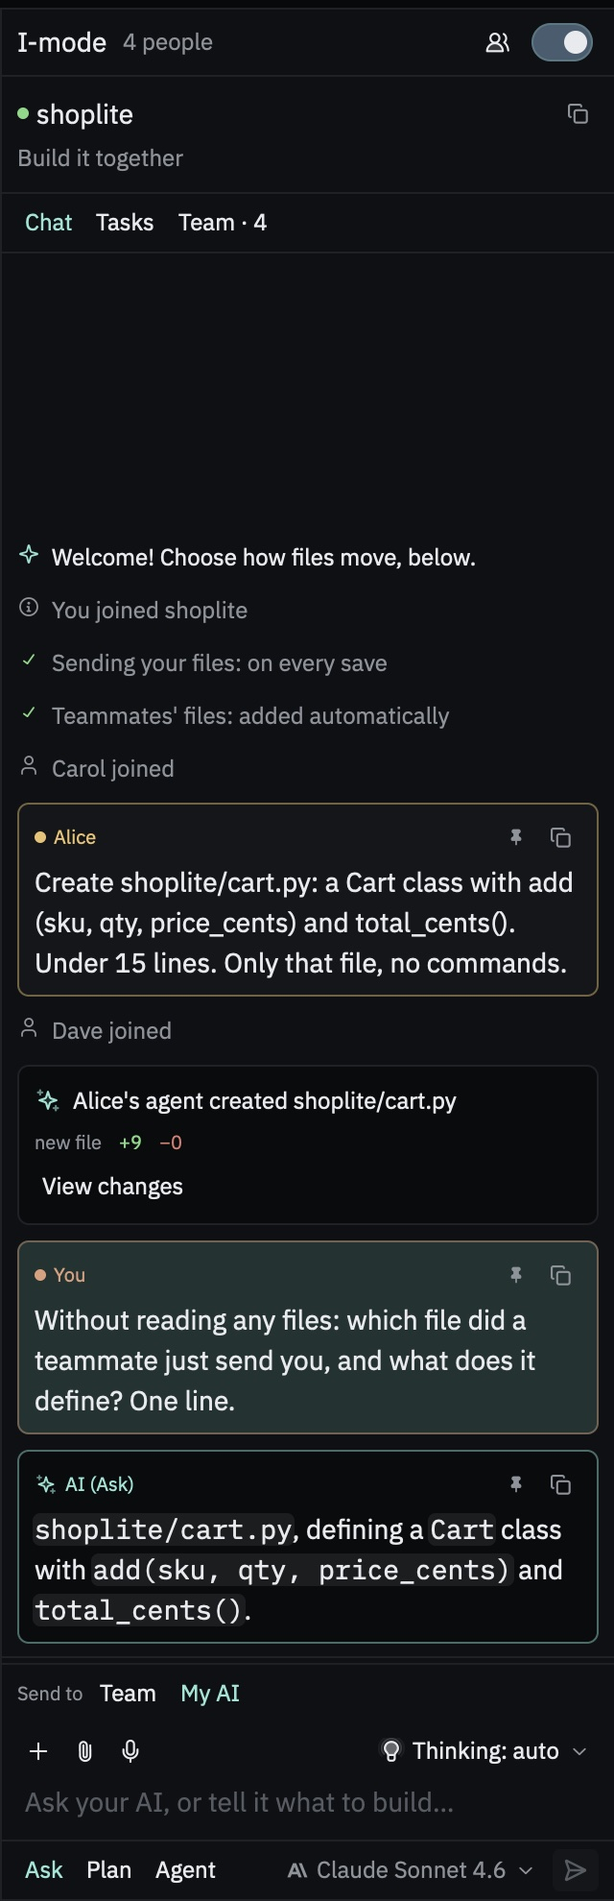
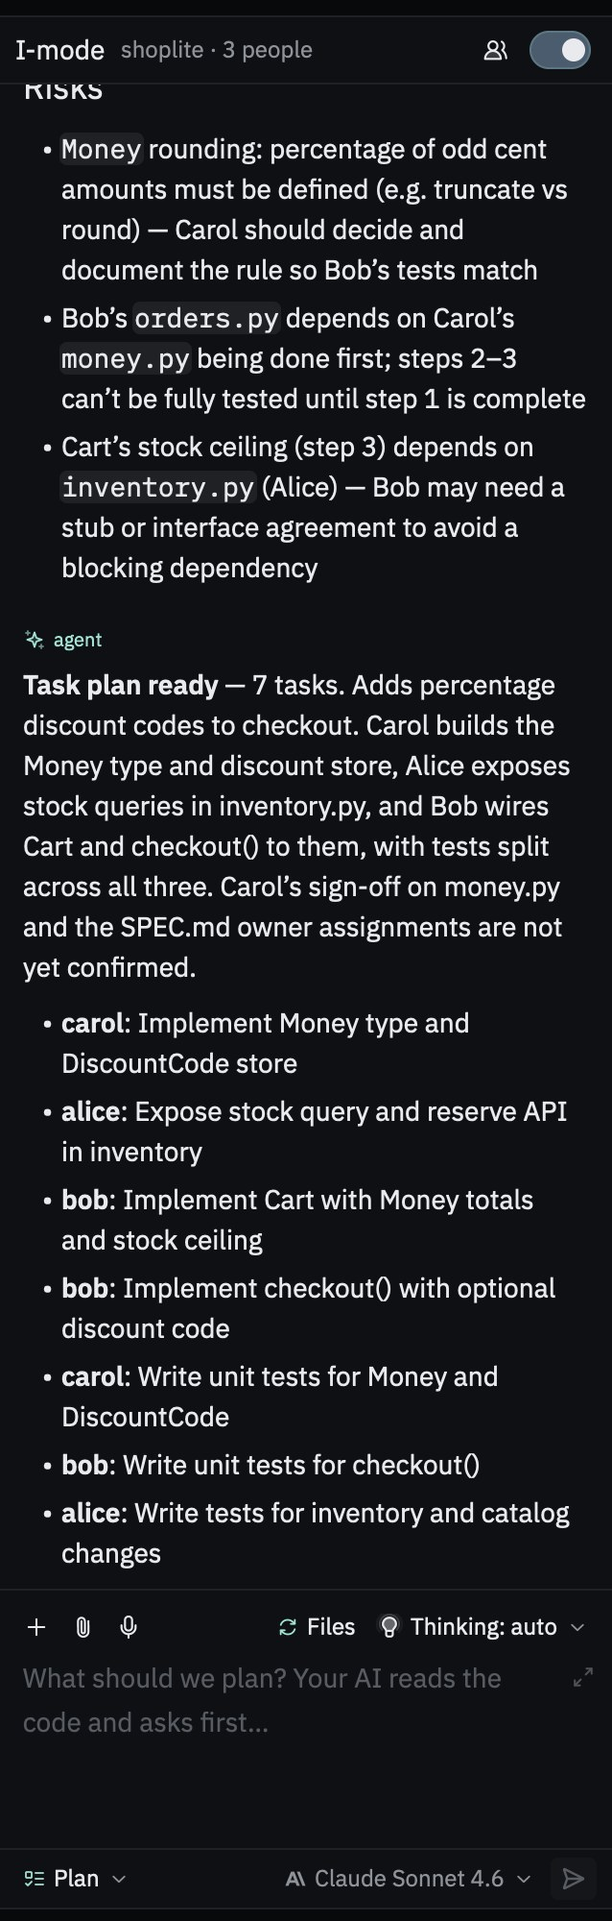
Docs and pictures for the new I-mode: mode menu, Plan mode, Team activity

diff --git a/site/docs/interface.html b/site/docs/interface.html
@@ -1,10 +1,10 @@
 <article data-page="/docs/interface" data-group="Get started" data-title="The I-IDE interface">
 <h1>The I-IDE interface</h1>
 <p class="lede">The I-IDE window has an editor in the middle, panels on each side, and a status bar along the bottom. This page explains each part.</p>
-<figure><img width="1100" height="752" src="/docs/img/window.jpg" alt="The I-IDE window: files on the left, cart.py open in the middle, and the I-mode panel on the right with the team chat, a file Alice's agent sent, and Bob's AI describing it." loading="lazy"><figcaption>The I-IDE window during a team session.</figcaption></figure>
+<figure><img width="1100" height="752" src="/docs/img/window.jpg" alt="The I-IDE window: files with Team activity below them on the left (Bob editing, tasks with owners), SPEC.md in the middle, and the I-mode chat on the right with a shared plan turned into tasks." loading="lazy"><figcaption>The I-IDE window during a team session.</figcaption></figure>
 <h2>Main areas</h2>
 <ul>
-  <li><strong>Project Panel:</strong> your project's files and folders, on the left. Toggle the left side with <kbd>Cmd</kbd>+<kbd>B</kbd>.</li>
+  <li><strong>Project Panel:</strong> your project's files and folders, on the left, with <strong>Team activity</strong> below them in a session. Toggle the left side with <kbd>Cmd</kbd>+<kbd>B</kbd>.</li>
   <li><strong>Editor:</strong> where you read and change code. Each open file gets a tab.</li>
   <li><strong>I-mode panel:</strong> sign-in, team sessions, chat and your AI, on the right. Toggle the right side with <kbd>Cmd</kbd>+<kbd>Alt</kbd>+<kbd>B</kbd>.</li>
   <li><strong>Bottom dock:</strong> the terminal and other tools. Toggle it with <kbd>Cmd</kbd>+<kbd>J</kbd>.</li>
@@ -15,20 +15,19 @@
 <ul>
   <li><strong>Two panels on one side:</strong> opening a panel on a side that already shows one keeps both, one above the other. For example, open <strong>Git</strong> and it appears below I-mode, or open the <strong>Agent Panel</strong> and it appears below your files. Drag the line between them to share the space, and select a panel's status bar button again to hide just that panel.</li>
   <li><strong>Terminal beside your code:</strong> the terminal opens at the bottom. To have it at a side instead, choose <strong>Beside the editor, right</strong> or <strong>left</strong>, so the side panels stay in view.</li>
-  <li><strong>Resize parts of I-mode:</strong> drag the line under the session title, or the line above the message box, to make that part taller or shorter. Double-click a line to put it back.</li>
+  <li><strong>A bigger message box:</strong> select the expand button at the top right of the message box in I-mode.</li>
 </ul>
 <p>To have each panel replace the one on its side instead, add <code>"stack_side_panels": false</code> to your settings.</p>
 <h2>The I-mode panel</h2>
-<p>From top to bottom, the panel has these parts during a session:</p>
+<p>From top to bottom, the panel has three parts:</p>
 <ol>
-  <li><strong>Header:</strong> the words <strong>I-mode</strong>, how many people are present, the people menu and the I-mode switch.</li>
-  <li><strong>Session title:</strong> the session name and goal, with a button that copies the invite link.</li>
-  <li><strong>Tabs:</strong> <strong>Chat</strong>, <strong>Tasks</strong> and <strong>Team</strong>.</li>
-  <li><strong>Send to:</strong> choose whether your message goes to your <strong>Team</strong> or <strong>My AI</strong>.</li>
-  <li><strong>Tool row:</strong> effort level and the buttons described in <a href="/docs/chat#tool-row">Team chat</a>.</li>
-  <li><strong>Message box:</strong> where you type.</li>
-  <li><strong>Mode and model:</strong> <strong>Ask</strong>, <strong>Plan</strong> or <strong>Agent</strong>, and which AI model to use.</li>
+  <li><strong>Header:</strong> the words <strong>I-mode</strong>, the session name and how many people are here (hover for the session goal), the people menu and the I-mode switch.</li>
+  <li><strong>Chat:</strong> your team's messages and your AI's answers.</li>
+  <li><strong>Message box:</strong> the tool row, the box itself, and the mode menu (<strong>Team</strong>, <strong>Ask</strong>, <strong>Plan</strong>, <strong>Agent</strong>) with the model and send button.</li>
 </ol>
+<h2>Team activity</h2>
+<figure class="small"><img width="319" height="1000" src="/docs/img/team-chat.jpg" alt="The I-mode panel: the end of a plan, then the task plan the session made from it, listing each person's tasks, above the message box." loading="lazy"><figcaption>The I-mode panel after a plan was shared.</figcaption></figure>
+<p>The <strong>Team activity</strong> panel sits beside your files. It shows who's here and which file each person is editing, with a colored status: amber for editing, blue for an agent running, grey for idle. Below that are the tasks and the latest changes.</p>
 <h2>The people menu</h2>
 <p>Select the people icon next to the I-mode switch to invite people, share files or your running app, and leave a session. If you're not in a session, it's where you create or join one.</p>
 <figure class="small"><img width="380" height="320" src="/docs/img/people-menu.jpg" alt="The people menu: AI & sharing, Invite by email, Share files, Share running app, Copy invite link, Leave session and Log out." loading="lazy"><figcaption>The people menu, as a session owner sees it.</figcaption></figure>

diff --git a/site/docs/chat.html b/site/docs/chat.html
@@ -1,28 +1,30 @@
 <article data-page="/docs/chat" data-group="Work with your team" data-title="Team chat">
 <h1>Team chat</h1>
-<p class="lede">The Chat tab is where you talk to your team and your AI. The <strong>Send to</strong> control decides who reads each message.</p>
+<p class="lede">The I-mode panel is one conversation: header, chat, message box. The mode menu under the message box decides who reads what you send.</p>
 <h2>Choose who gets your message</h2>
-<table><thead><tr><th>Send to</th><th>Who reads it</th></tr></thead><tbody>
-  <tr><td><strong>Team</strong></td><td>Everyone in the session.</td></tr>
-  <tr><td><strong>My AI</strong></td><td>Your own AI. It's private to you.</td></tr>
+<p>Select the mode menu at the bottom left of the panel, or press <kbd>Shift</kbd>+<kbd>Tab</kbd> in the message box to move through the modes.</p>
+<table><thead><tr><th>Mode</th><th>Who reads it</th></tr></thead><tbody>
+  <tr><td><strong>Team</strong></td><td>The people in the session. No AI.</td></tr>
+  <tr><td><strong>Ask</strong></td><td>Your AI, which answers questions and changes nothing.</td></tr>
+  <tr><td><strong>Plan</strong></td><td>Your AI, which reads the code, asks what it needs, then writes a plan. See <a href="/docs/your-ai#plan">Plan mode</a>.</td></tr>
+  <tr><td><strong>Agent</strong></td><td>Your AI, which writes code and runs commands.</td></tr>
 </tbody></table>
-<h2>Send a message to your team</h2>
-<ol>
-  <li>Set <strong>Send to</strong> to <strong>Team</strong>.</li>
-  <li>Type in the message box.</li>
-  <li>Press <kbd>Return</kbd>.</li>
-</ol>
-<h2>Team chat is for people</h2>
-<p>Messages sent to <strong>Team</strong> go to the people in the session. To ask your AI, switch <strong>Send to</strong> to <strong>My AI</strong>, or use the <a href="/docs/agent-panel">Agent Panel</a> on the left. The two work as a pair; see <a href="/docs/agent-panel#your-two-ais">Your two AIs</a>.</p>
-<p>When the team has agreed what to do, end a message with <code>@agent</code> to hand the agreed work to your AI. <strong>Send to</strong> then switches to <strong>My AI</strong>.</p>
+<p>A session starts on <strong>Team</strong>. When the team has agreed what to do, end a message with <code>@agent</code> to hand the agreed work to your AI; the mode switches to your AI for the messages that follow.</p>
+<h2>What stays in the chat</h2>
+<p>Messages, your AI's answers and files teammates send stay in the chat. Short notices, such as someone joining or a setting you changed, show for a few seconds above the message box and then go away.</p>
+<h2>Choose how files move</h2>
+<p>The <strong>Files</strong> button in the tool row shows how your changes and your teammates' changes move, and lets you change either at any time. See <a href="/docs/live-editing">Live editing</a>.</p>
+<h2>A bigger message box</h2>
+<p>The message box grows as you type, up to eight lines. For a long message, select the expand button at its top right; select it again, or send, to make it small again.</p>
 <h2 id="tool-row">The tool row</h2>
 <p>These buttons sit above the message box. Hover over any of them to see its name.</p>
 <table><thead><tr><th>Control</th><th>What it does</th></tr></thead><tbody>
-  <tr><td><strong>Effort</strong> menu</td><td>Sets how hard your AI thinks. See <a href="/docs/your-ai#effort">Effort</a>.</td></tr>
-  <tr><td>Document button</td><td>Starts writing the <a href="/docs/reference-doc">shared reference</a>.</td></tr>
-  <tr><td>List button</td><td>Runs <a href="/docs/triage">triage</a>. Only the owner can use it.</td></tr>
-  <tr><td>Circle button</td><td>Syncs the file you have open.</td></tr>
-  <tr><td>Image and paper clip buttons</td><td>Attach an image or a file.</td></tr>
-  <tr><td>Speaker button</td><td>Starts macOS dictation.</td></tr>
+  <tr><td><strong>+</strong> menu</td><td>Add an image, send the open file to the team, write the <a href="/docs/reference-doc">team plan</a>, or run <a href="/docs/triage">triage</a> (owner only).</td></tr>
+  <tr><td>Paper clip</td><td>Attach a file.</td></tr>
+  <tr><td>Microphone</td><td>Starts macOS dictation.</td></tr>
+  <tr><td><strong>Files</strong></td><td>How files move in this session.</td></tr>
+  <tr><td><strong>Thinking</strong></td><td>How hard your AI thinks. Shown only when you're talking to your AI. See <a href="/docs/your-ai#effort">Effort</a>.</td></tr>
 </tbody></table>
+<h2>See the team at a glance</h2>
+<p>Who's here and which file each person is editing, the tasks and the latest changes are in the <strong>Team activity</strong> panel beside your files. Open it with its button in the status bar, or from the people menu.</p>
 </article>

diff --git a/site/docs/tutorial.html b/site/docs/tutorial.html
@@ -37,23 +37,22 @@
 <div class="callout tip"><strong>Tip</strong><p>Don't recognize the email address? Select <strong>Decline</strong>. That account can't ask to join this session again.</p></div>
 <h2>4. Talk through the plan</h2>
 <ol>
-  <li>Open the <strong>Chat</strong> tab and make sure <strong>Send to</strong> is set to <strong>Team</strong>.</li>
+  <li>Check that the mode menu under the message box says <strong>Team</strong>. A session starts there.</li>
   <li>Say what you're building and who is good at what. For example: "I know the storage code, so I'll take that. Can you do the form and tests?"</li>
   <li>Press <kbd>Return</kbd> to send. Your teammate sees the message right away.</li>
 </ol>
-<figure class="small"><img width="320" height="990" src="/docs/img/team-chat.jpg" alt="The I-mode panel on Bob's computer: Alice's message, the file her agent created, and Bob's AI describing it." loading="lazy"><figcaption>Bob's panel: Alice's message, the file her agent sent, and Bob's AI already knowing what's in it.</figcaption></figure>
-<h2>5. Assign the work</h2>
+<figure class="small"><img width="319" height="1000" src="/docs/img/plan-mode.jpg" alt="The I-mode panel in Plan mode: the end of a plan with steps that name owners, tests and risks, then Build, Edit plan and Share with team buttons, and the mode menu set to Plan." loading="lazy"><figcaption>A plan in Plan mode, ready to build or share.</figcaption></figure>
+<h2>5. Plan the work</h2>
 <ol>
-  <li>Open the <strong>Tasks</strong> tab.</li>
-  <li>Select <strong>Assign tasks</strong>. I-IDE reads your discussion and splits the work by role, with one owner per task and files kept apart.</li>
-  <li>Review the task board with your teammate. Each of you selects <strong>Start with my agent</strong> on a task you own.</li>
+  <li>Choose <strong>Plan</strong> in the mode menu and describe the work, for example "Plan reminders for tasks".</li>
+  <li>Your AI reads the code and may ask a question or two. Select an answer, or type your own.</li>
+  <li>Check the plan. Each step names an owner. Select <strong>Share with team</strong>: the plan goes to the chat and its steps become tasks in <strong>Team activity</strong>, beside your files.</li>
+  <li>Select <strong>Build</strong> to have your AI do your steps, or <strong>Start with my agent</strong> on one of your tasks.</li>
 </ol>
-<p>Starting a task hands it to your Agent Panel on the left. Its edits show up in the I-mode panel so you can sync them.</p>
 <h2>6. Let your agents work</h2>
 <p>You can also direct your AI from the I-mode panel:</p>
 <ol>
-  <li>Set <strong>Send to</strong> to <strong>My AI</strong>.</li>
-  <li>Choose <strong>Agent</strong> mode at the bottom of the panel.</li>
+  <li>Choose <strong>Agent</strong> in the mode menu at the bottom of the panel.</li>
   <li>Describe the change, such as "Add a remind_at field to Task, and a method that lists tasks that are due."</li>
   <li>When the agent wants to run a command, a card appears. Select <strong>Run</strong> or <strong>Deny</strong>.</li>
 </ol>
@@ -66,8 +65,8 @@
 </ol>
 <p>To check changes before they go out, choose <strong>When I press Sync</strong> instead, and select <strong>Sync to team</strong> when you're ready. Learn more in <a href="/docs/live-editing#sync-your-agents-work">Choose how files move</a>.</p>
 <h2>8. Review the session</h2>
-<p>Open the <strong>Team</strong> tab to see who is here and what they're doing, the conflicts caught this week, what changed this session, and which files are syncing.</p>
-<figure class="small"><img width="320" height="990" src="/docs/img/team-tab.jpg" alt="The Team tab: collaborators, an agent run with Accept and Needs changes, this week's numbers, changed files and syncing files." loading="lazy"><figcaption>The Team tab.</figcaption></figure>
+<p>Open <strong>Team activity</strong> to see who is here and what they're doing, the conflicts caught this week, what changed this session, and which files are syncing.</p>
+<figure class="small"><img width="299" height="709" src="/docs/img/team-activity.jpg" alt="Team activity: Bob editing README.md, Carol idle, and tasks from the shared plan with their owners." loading="lazy"><figcaption>Team activity.</figcaption></figure>
 <h2>9. Finish up</h2>
 <p>Commit your work with Git as usual. I-IDE doesn't replace Git. When you're done, select the people icon, then <strong>Leave session</strong>.</p>
 <h2>Next steps</h2>

diff --git a/site/docs/tasks.html b/site/docs/tasks.html
@@ -1,21 +1,22 @@
-<article data-page="/docs/tasks" data-group="Work with your team" data-title="Task board">
-<h1>Task board</h1>
-<p class="lede">The Tasks tab turns your team's discussion into a plan, with one owner for each task.</p>
-<figure class="small"><img width="320" height="380" src="/docs/img/tasks.jpg" alt="The Tasks tab with an Assign tasks button and instructions." loading="lazy"><figcaption>The empty task board.</figcaption></figure>
-<h2>Create a plan</h2>
+<article data-page="/docs/tasks" data-group="Work with your team" data-title="Tasks">
+<h1>Tasks</h1>
+<p class="lede">Tasks come from a plan. Plan with your AI, share the plan, and its steps become the team's tasks, each with an owner.</p>
+<h2>Create tasks from a plan</h2>
 <ol>
-  <li>In <strong>Chat</strong>, talk through what you're building and who is good at what. The more specific you are, the better the split.</li>
-  <li>Open the <strong>Tasks</strong> tab.</li>
-  <li>Select <strong>Assign tasks</strong>.</li>
+  <li>In the I-mode panel, choose <strong>Plan</strong> in the mode menu and describe the work.</li>
+  <li>Answer your AI's questions, then check the plan. Each step names an owner, taken from the spec or the chat, or whoever is best placed.</li>
+  <li>Select <strong>Share with team</strong>. The plan goes to the team chat and its steps become tasks.</li>
 </ol>
-<p>I-IDE splits the work by role, with one owner per task and files kept apart so that agents don't collide. In a <strong>You lead</strong> session, only the leader can do this.</p>
-<h2>Work on a task</h2>
+<p>In a <strong>You lead</strong> session, the leader's share creates the tasks; anyone else's plan goes to the chat for the leader to use.</p>
+<h2>See and work on tasks</h2>
+<p>Tasks are in the <strong>Team activity</strong> panel beside your files, under the list of who's here and what each person is editing.</p>
 <table><thead><tr><th>Select</th><th>To</th></tr></thead><tbody>
-  <tr><td><strong>Start with my agent</strong></td><td>Hand the task to your Agent Panel. Its edits show in the I-mode panel for syncing.</td></tr>
+  <tr><td><strong>Start with my agent</strong></td><td>Hand your task to your AI.</td></tr>
   <tr><td><strong>Mark done</strong></td><td>Mark the task as finished.</td></tr>
   <tr><td><strong>Reopen</strong></td><td>Put a finished task back in progress.</td></tr>
 </tbody></table>
+<p>Each task shows its state in color: grey for to do, blue for doing, green for done, and its owner's color.</p>
 <h2>Stay in your lane</h2>
-<p>If someone edits files outside their task, the session counts a lane warning, which appears in the <strong>Team</strong> tab. It's a prompt to check in with each other, and nothing is blocked.</p>
-<div class="callout important"><strong>Important</strong><p>Assigning tasks uses the service's shared AI key, so <a href="/docs/limits">AI limits</a> apply.</p></div>
+<p>If someone edits files outside their task, the session counts a lane warning in Team activity. It's a prompt to check in with each other, and nothing is blocked.</p>
+<div class="callout important"><strong>Important</strong><p>Turning a plan into tasks uses the service's shared AI key, so <a href="/docs/limits">AI limits</a> apply.</p></div>
 </article>

diff --git a/site/docs/team-tab.html b/site/docs/team-tab.html
@@ -1,9 +1,10 @@
-<article data-page="/docs/team-tab" data-group="Work with your team" data-title="The Team tab">
-<h1>The Team tab</h1>
-<p class="lede">The Team tab shows what's happening in the session right now and what the team's work added up to this week.</p>
-<figure class="small"><img width="320" height="990" src="/docs/img/team-tab.jpg" alt="The Team tab: collaborators, an agent run with Accept and Needs changes, this week's numbers, changed files and syncing files." loading="lazy"><figcaption>The Team tab.</figcaption></figure>
-<h2>Collaborators</h2>
-<p>Lists who is present, what file they have open and whether their agent is active. The numbers mean:</p>
+<article data-page="/docs/team-tab" data-group="Work with your team" data-title="Team activity">
+<h1>Team activity</h1>
+<p class="lede">The Team activity panel, beside your files, shows what's happening in the session right now: who's here and what each person is editing, the tasks, and what changed.</p>
+<figure class="small"><img width="299" height="709" src="/docs/img/team-activity.jpg" alt="Team activity: Bob editing README.md with an amber editing label, Carol idle, then tasks from a shared plan, each with a to do label and its owner in their color." loading="lazy"><figcaption>Team activity during a session.</figcaption></figure>
+<p>Open it with its button in the status bar, or from the people menu. It sits below your files; drag the bar between them to share the space.</p>
+<h2>People</h2>
+<p>Lists who is present and which file and line each person is on, with a colored label: amber for <strong>editing</strong>, blue for <strong>agent running</strong>, grey for <strong>idle</strong>. Each person keeps one color everywhere. Counts appear only when they're above zero:</p>
 <table><thead><tr><th>Count</th><th>Meaning</th></tr></thead><tbody>
   <tr><td><strong>Merges</strong></td><td>Edits made at the same time that were merged live.</td></tr>
   <tr><td><strong>Divergences</strong></td><td>Changes that drifted from the shared reference.</td></tr>

diff --git a/site/docs/your-ai.html b/site/docs/your-ai.html
@@ -3,8 +3,7 @@
 <p class="lede">Your AI works for you, using your key. You can ask it questions, plan with it, or let it change your code.</p>
 <h2>Talk to your AI</h2>
 <ol>
-  <li>Set <strong>Send to</strong> to <strong>My AI</strong>. In solo mode, the AI is your only option.</li>
-  <li>Choose a mode.</li>
+  <li>Choose <strong>Ask</strong>, <strong>Plan</strong> or <strong>Agent</strong> in the mode menu under the message box, or press <kbd>Shift</kbd>+<kbd>Tab</kbd> to move through them.</li>
   <li>Type your request and press <kbd>Return</kbd>.</li>
 </ol>
 <h2>Modes</h2>
@@ -13,6 +12,14 @@
   <tr><td><strong>Plan</strong></td><td>Work out an approach before changing anything.</td></tr>
   <tr><td><strong>Agent</strong></td><td>Have it create and edit files and run commands.</td></tr>
 </tbody></table>
+<h2 id="plan">Plan mode</h2>
+<ol>
+  <li>Choose <strong>Plan</strong> and describe what you want, for example "Plan adding discount codes to checkout".</li>
+  <li>Your AI reads the code it touches. If something important is unclear, it asks up to three questions. Select an answer, or type your own.</li>
+  <li>It writes a plan: the goal, numbered steps naming files and functions, how to test it, and the risks. In a session, each step names its owner.</li>
+  <li>Select <strong>Edit plan</strong> to change it in the editor, then <strong>Build</strong> to have your AI carry it out in Agent mode. In a session, it builds only your steps.</li>
+  <li>In a session, select <strong>Share with team</strong> to post the plan and turn its steps into <a href="/docs/tasks">tasks</a> with owners.</li>
+</ol>
 <h2 id="effort">Effort</h2>
 <p>The effort menu above the message box sets how hard the model thinks: <strong>Default</strong>, <strong>Minimal</strong>, <strong>Low</strong>, <strong>Medium</strong>, <strong>High</strong>, <strong>Extra High</strong> or <strong>Max</strong>. Higher effort is usually slower and can cost more.</p>
 <h2>Give your AI context</h2>

diff --git a/site/docs/live-editing.html b/site/docs/live-editing.html
@@ -3,17 +3,17 @@
 <p class="lede">When people work on the same file in a session, their edits appear for each other as they type. This page explains how files get shared.</p>
 <h2>Edit a file together</h2>
 <ol>
-  <li>Open a file while you're in a session. It starts syncing, and it appears under <strong>Syncing</strong> in the <strong>Team</strong> tab.</li>
+  <li>Open a file while you're in a session. It starts syncing, and it appears under <strong>Syncing</strong> in <strong>Team activity</strong>.</li>
   <li>Your teammate opens the same file.</li>
   <li>Type as usual. Edits from both of you merge as you go, and you can undo your own changes with <kbd>Cmd</kbd>+<kbd>Z</kbd>.</li>
 </ol>
 <p>People are never blocked from typing. <a href="/docs/claims">Claims</a> only coordinate agents.</p>
 <h2>See who is where</h2>
-<p>Open the <strong>Team</strong> tab. <strong>Collaborators</strong> lists who is present, which file each person has open and what their agent is doing.</p>
+<p>Open <strong>Team activity</strong>. <strong>People</strong> lists who is present, which file each person has open and what their agent is doing.</p>
 <h2>Sync one file</h2>
 <ul>
   <li>Open the file and select the circle button in the tool row.</li>
-  <li>Or find the file under <strong>Syncing</strong> in the <strong>Team</strong> tab and select <strong>Sync</strong>.</li>
+  <li>Or find the file under <strong>Syncing</strong> in <strong>Team activity</strong> and select <strong>Sync</strong>.</li>
 </ul>
 <h2>Share files teammates don't have</h2>
 <ol>

diff --git a/site/docs/limits.html b/site/docs/limits.html
@@ -12,7 +12,7 @@
 <h2>The daily limit</h2>
 <p>Each session can spend about $2 a day. When it reaches that, shared features pause until the next day (UTC), and the chat says so if you requested one. The amount is estimated from token counts.</p>
 <h2>What to do when you reach it</h2>
-<ul><li>Set <strong>Send to</strong> to <strong>My AI</strong> and keep working with your own key.</li><li>Or wait until the next day.</li></ul>
+<ul><li>Choose <strong>Ask</strong>, <strong>Plan</strong> or <strong>Agent</strong> in the mode menu and keep working with your own key.</li><li>Or wait until the next day.</li></ul>
 <h2>See what you've used</h2>
-<p>Open the <strong>Team</strong> tab and look for <strong>Shared key cost</strong>.</p>
+<p>Open <strong>Team activity</strong> and look for <strong>Shared key cost</strong>.</p>
 </article>

diff --git a/site/docs/agent-runs.html b/site/docs/agent-runs.html
@@ -10,7 +10,7 @@
   <li><strong>Remember.</strong> Every agent in the session sees reviewed runs. They build on accepted work and avoid repeating work that was sent back.</li>
 </ol>
 <h2>Reading a run</h2>
-<p>Runs appear in the <a href="/docs/team-tab">Team tab</a> under <strong>Agent runs</strong>, newest first. Each card shows the status, whose agent ran it, the goal, the files it changed and the reviews it has.</p>
+<p>Runs appear in <a href="/docs/team-tab">Team activity</a> under <strong>Agent runs</strong>, newest first. Each card shows the status, whose agent ran it, the goal, the files it changed and the reviews it has.</p>
 <table><thead><tr><th>Icon</th><th>Meaning</th></tr></thead><tbody>
   <tr><td>Spinning circle</td><td>The run is still going.</td></tr>
   <tr><td>Check mark</td><td>The run finished.</td></tr>

diff --git a/site/docs/reference-doc.html b/site/docs/reference-doc.html
@@ -12,7 +12,7 @@
 <h2>Approve a proposed reference</h2>
 <p>A reference from someone who isn't the owner arrives as a proposal. The owner selects <strong>Approve</strong> to publish it or <strong>Dismiss</strong> to discard it.</p>
 <h2>Find the reference</h2>
-<p>It appears as <code>REFERENCE.md</code> in everyone's project and in the <strong>Team</strong> tab.</p>
+<p>It appears as <code>REFERENCE.md</code> in everyone's project and in <strong>Team activity</strong>.</p>
 <h2>Divergences</h2>
-<p>When a change drifts from the reference, the session counts a divergence in the <strong>Team</strong> tab.</p>
+<p>When a change drifts from the reference, the session counts a divergence in <strong>Team activity</strong>.</p>
 </article>

diff --git a/site/docs.html b/site/docs.html
@@ -45,8 +45,8 @@
       <a href="/docs/invites">Invites and approvals</a>
       <a href="/docs/chat">Team chat</a>
       <a href="/docs/live-editing">Live editing and syncing</a>
-      <a href="/docs/tasks">Task board</a>
-      <a href="/docs/team-tab">The Team tab</a>
+      <a href="/docs/tasks">Tasks</a>
+      <a href="/docs/team-tab">Team activity</a>
       <a href="/docs/previews">Shared previews</a>
     </details>
     <details><summary>Work with AI</summary>

diff --git a/src/site.rs b/src/site.rs
@@ -67,8 +67,8 @@ const DOC_IMAGES: &[(&str, &[u8])] = &[
     ("people-menu.jpg", include_bytes!("../site/docs-img/people-menu.jpg")),
     ("join-request.jpg", include_bytes!("../site/docs-img/join-request.jpg")),
     ("team-chat.jpg", include_bytes!("../site/docs-img/team-chat.jpg")),
-    ("team-tab.jpg", include_bytes!("../site/docs-img/team-tab.jpg")),
-    ("tasks.jpg", include_bytes!("../site/docs-img/tasks.jpg")),
+    ("team-activity.jpg", include_bytes!("../site/docs-img/team-activity.jpg")),
+    ("plan-mode.jpg", include_bytes!("../site/docs-img/plan-mode.jpg")),
     ("signed-out.jpg", include_bytes!("../site/docs-img/signed-out.jpg")),
 ];
 
